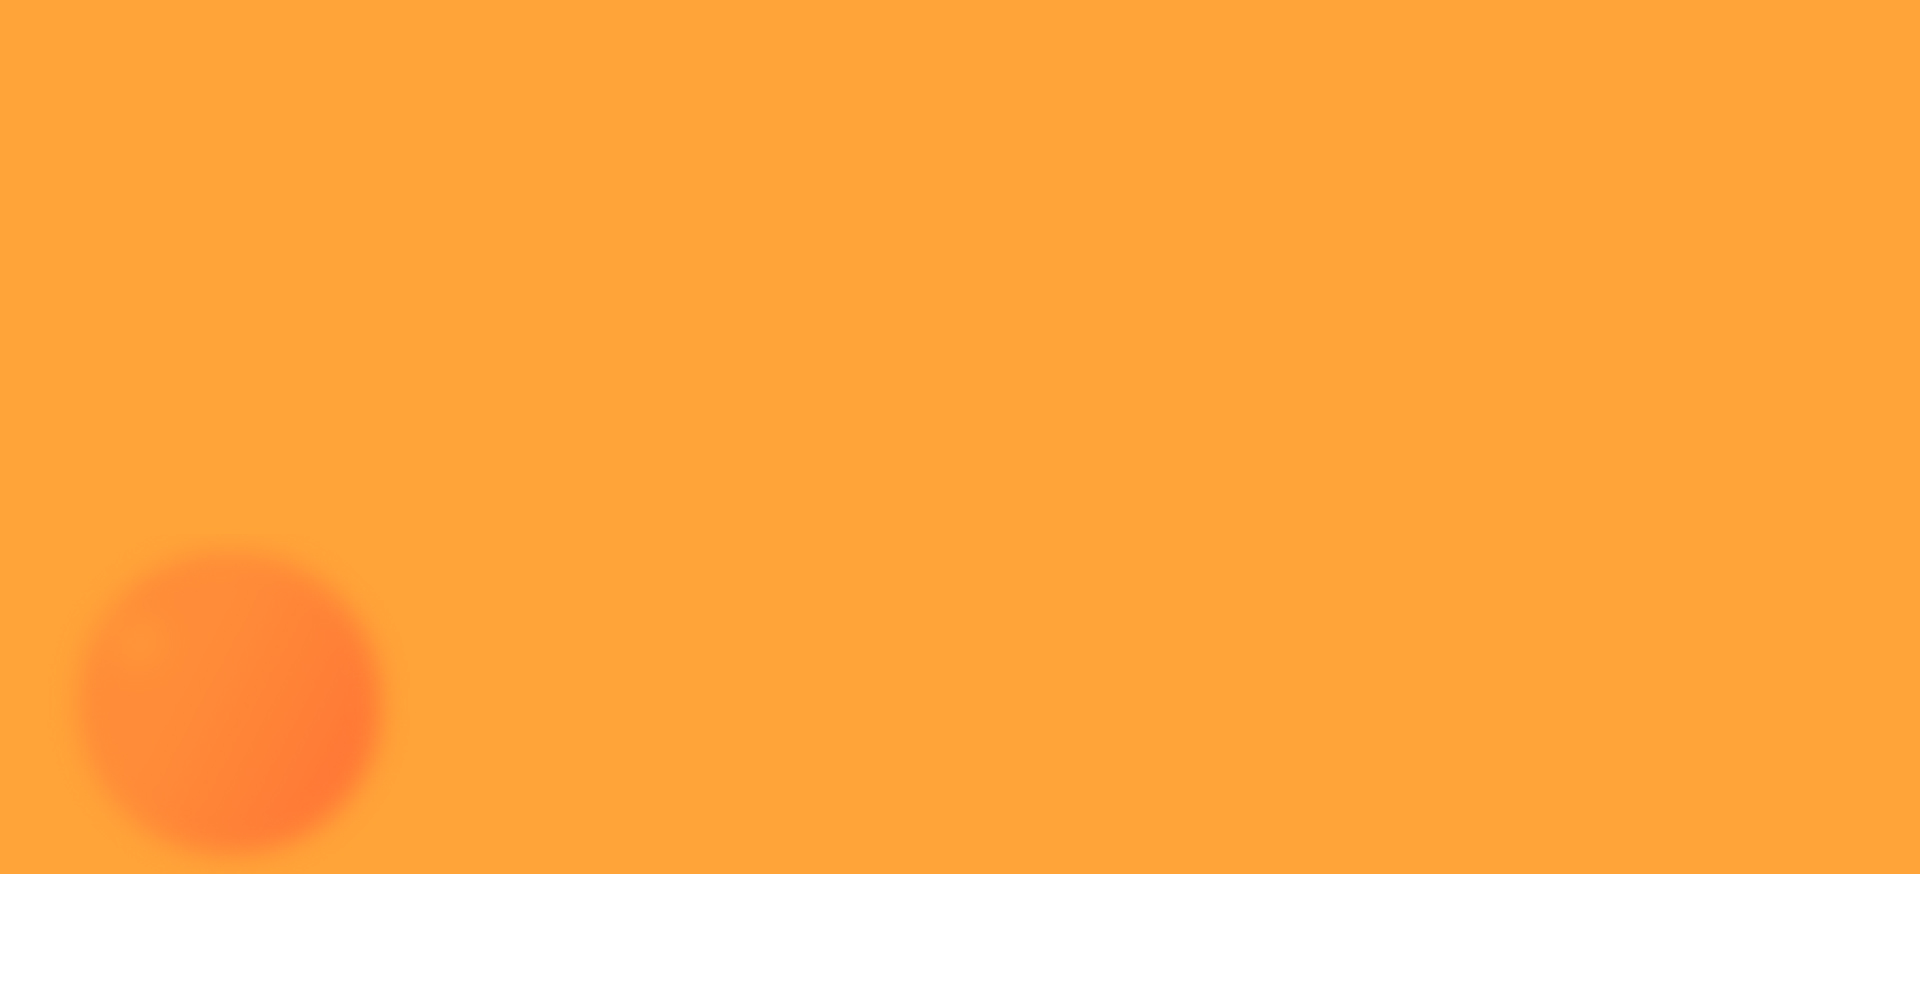
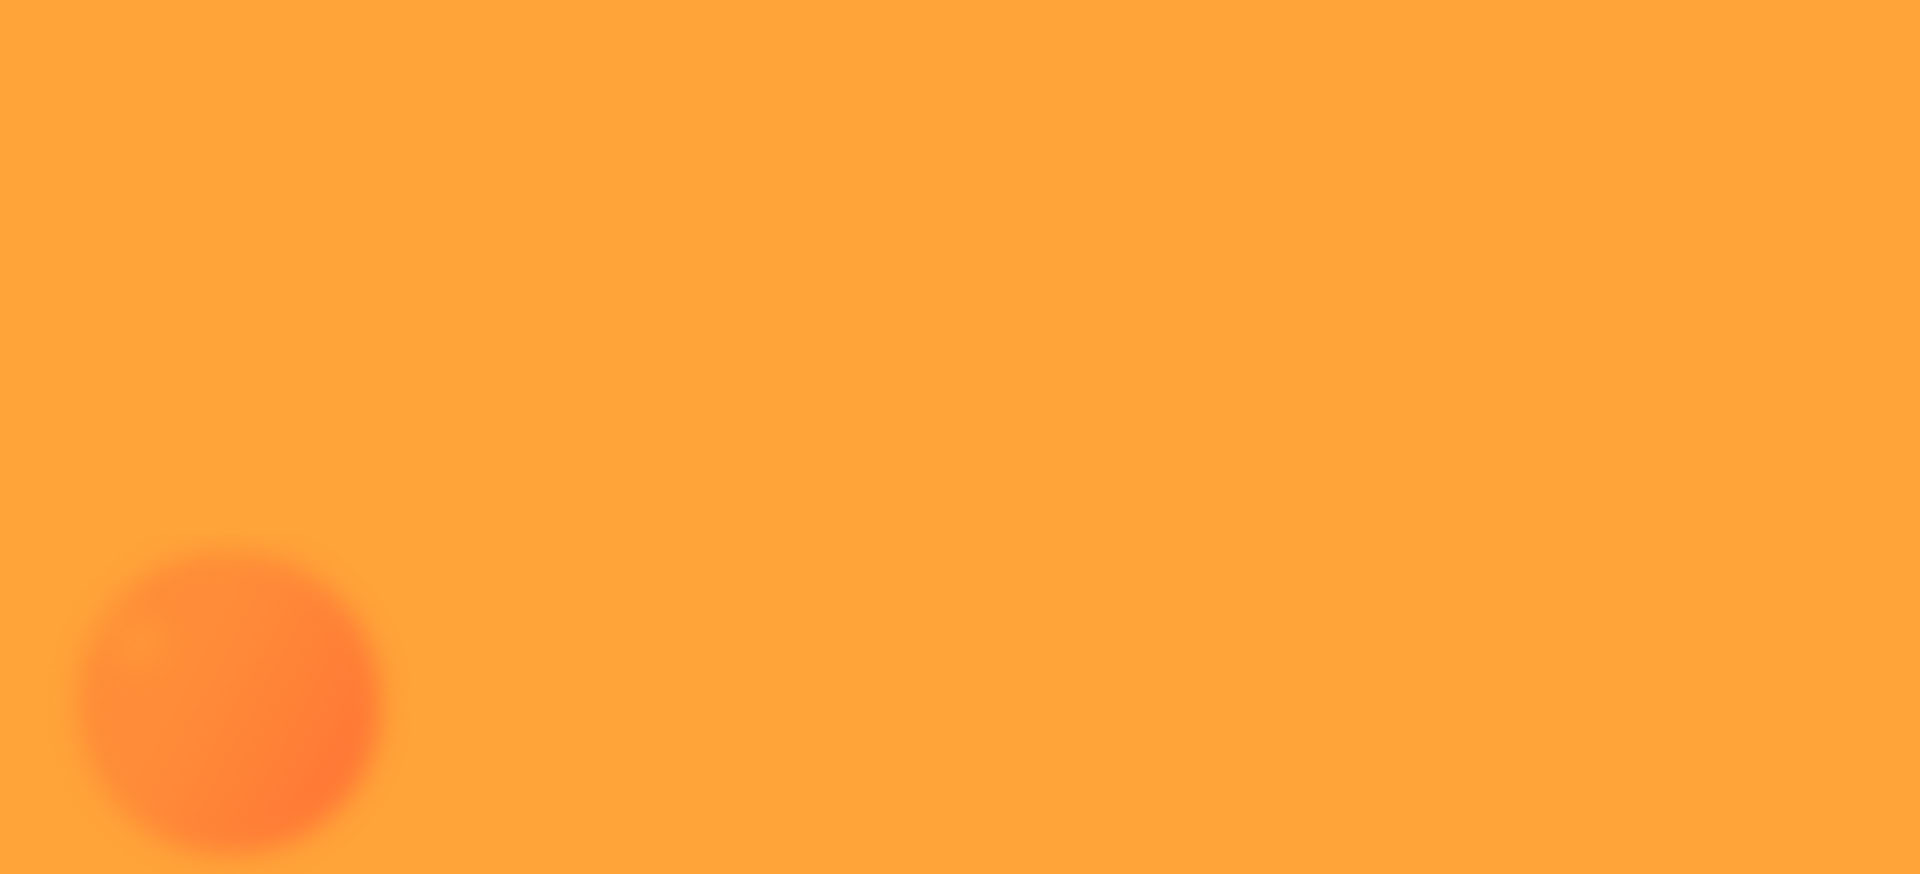
메인수정

Changed region(s): [[0.0, 0.7723, 1.0, 1.0], [0.0938, 0.5561, 0.2188, 0.7105]]

diff --git a/css/main.css b/css/main.css
@@ -9,7 +9,7 @@
 /*=============================================================*/
 /*                         Main_banner1                        */
 /*=============================================================*/
-#Main_banner1{height:100vh;background:url(../assets/images/main/main01_bg.jpg)no-repeat center;overflow:hidden;}
+#Main_banner1{background:url(../assets/images/main/main01_bg.jpg)no-repeat center;overflow:hidden;}
 #Main_banner1 .visual_wrap{position:relative;min-width:1800px;height:100%;overflow:hidden;}
 #Main_banner1 .txt_area{width:1400px;margin:286px auto}
 #Main_banner1 .txt_area .txt01{font-size:70px;line-height:86px;font-weight:800;color:#fff;}
@@ -21,9 +21,47 @@
 #Main_banner1 .particles.p02{top:650px;right:740px;z-index:9;}
 #Main_banner1 #ScrollDown{display:flex;flex-direction:column;justify-content:center;align-items:center;position:absolute;bottom:60px;left:50%;transform:translateX(-50%);;}
 #Main_banner1 #ScrollDown p{font-size:14px;font-weight:700;color:#fff;margin-bottom:10px}
+.particles.p03{z-index:999;right:300px;transform:translateY(-70px);}
 
 /*=============================================================*/
 /*                         Main_banner2                        */
 /*=============================================================*/
-#Main_banner2{height:100vh;background:url(../assets/images/main/main02_bg.jpg)no-repeat center;overflow:hidden;}
-#Main_banner2 
+#Main_banner2{background:url(../assets/images/main/main02_bg.jpg)no-repeat top center;overflow:hidden;}
+#Main_banner2 .tit_area{margin:130px auto 80px}
+#Main_banner2 .tit_area .sub_tit{color:var(--yellow)}
+#Main_banner2 .tit_area .tit{color:#fff}
+#Main_banner2 ul{display:flex;margin-bottom:130px;justify-content:center;align-items:center;gap:30px}
+#Main_banner2 ul li{width:327px;height:420px;padding:64px 0;border-radius:20px;display:flex;flex-direction:column;justify-content:flex-start;align-items:center;background:#fff;}
+#Main_banner2 ul li .item_circle{width:180px;height:180px;border-radius:50%;display:flex;justify-content:center;align-items:center;margin-bottom:40px}
+#Main_banner2 ul li:nth-child(1) .item_circle{background:#FFEDDF;}
+#Main_banner2 ul li:nth-child(2) .item_circle{background:#ECF3FF;}
+#Main_banner2 ul li:nth-child(3) .item_circle{background:#E6F5D0;}
+#Main_banner2 ul li:nth-child(4) .item_circle{background:#FFF1D6;}
+#Main_banner2 ul li p{font-size:26px;line-height:36px;text-align:center;font-weight:700;}
+#Main_banner2 ul li:nth-child(1) p{color:var(--main)}
+#Main_banner2 ul li:nth-child(2) p{color:var(--blue)}
+#Main_banner2 ul li:nth-child(3) p{color:var(--green)}
+#Main_banner2 ul li:nth-child(4) p{color:var(--main2)}
+#Main_banner2 .particles.p04{top:130px;left:215px}
+/*=============================================================*/
+/*                         Main_banner3                        */
+/*=============================================================*/
+#Main_banner3{background:url(../assets/images/main/bg_line_snow.svg)no-repeat top left;overflow:hidden;}
+#Main_banner3 .tit_area{margin:130px auto 80px}
+#Main_banner3 .tit_area .sub_tit{color:var(--main2)}
+#Main_banner3 .tit_area .tit{color:#000}
+#Main_banner3 ul{display:flex;justify-content:center;gap:40px}
+#Main_banner3 ul li{text-align:center;}
+#Main_banner3 ul li .item_circle{display:flex;justify-content:center;align-items:center;}
+#Main_banner3 ul li img{max-width:inherit;height:100%;transition:.5s;}
+#Main_banner3 ul li:nth-child(1) img{height:110%;transform:translate(50px, -11px)}
+#Main_banner3 ul li:nth-child(1):hover img{transform:translate(50px, -11px) scale(1.2)}
+#Main_banner3 ul li:nth-child(2) img{height:100%;}
+#Main_banner3 ul li:nth-child(2):hover img{transform:scale(1.2);}
+#Main_banner3 ul li:nth-child(3) img{height:140%;transform: translate(130px, -71px);}
+#Main_banner3 ul li:nth-child(3) img{height:140%;transform: translate(130px, -71px);}
+#Main_banner3 ul li .item_circle{width:440px;height:440px;border-radius:50%;overflow:hidden;margin-bottom:40px}
+#Main_banner3 ul li .tit{font-size:40px;font-weight:700;margin-bottom:16px}
+#Main_banner3 ul li:nth-child(1) .tit{color:var(--main2)}
+#Main_banner3 ul li:nth-child(2) .tit{color:var(--green)}
+#Main_banner3 ul li:nth-child(3) .tit{color:var(--blue)}
